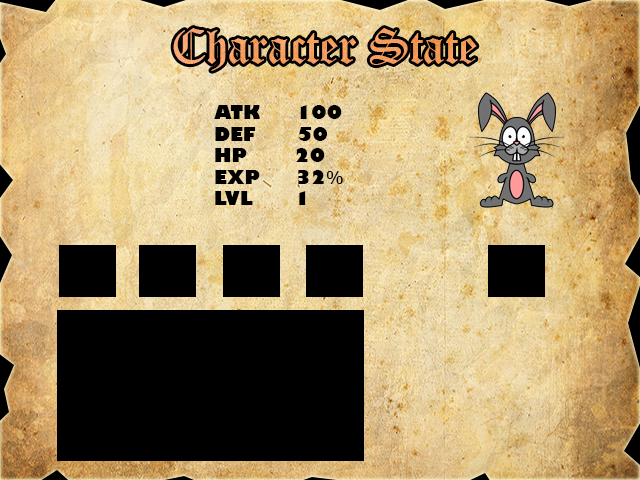
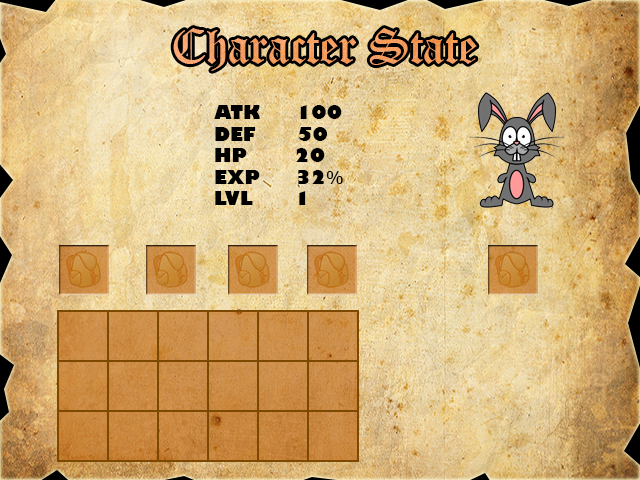
Make CharacterScreen completely.

Changed region(s): [[0.0625, 0.5, 0.5938, 0.9688], [0.75, 0.5, 0.875, 0.625]]

diff --git a/core/src/main/java/sut/game01/core/screen/CharacterScreen.java b/core/src/main/java/sut/game01/core/screen/CharacterScreen.java
@@ -34,7 +34,7 @@ public class CharacterScreen extends UIScreen {
         layer.add(bgLayer);
 
         ImageLayer startLayer = PlayN.graphics().createImageLayer(PlayN.assets().getImage("images/CharacterScreen/MapButton.png"));
-        startLayer.setTranslation(640f - 230f,480f - 170f);
+        startLayer.setTranslation(640f - 220f,480f - 170f);
 
         startLayer.addListener(new Pointer.Adapter(){
             @Override
@@ -46,7 +46,7 @@ public class CharacterScreen extends UIScreen {
         layer.add(startLayer);
 
         ImageLayer backLayer = PlayN.graphics().createImageLayer(PlayN.assets().getImage("images/CharacterScreen/BackButton.png"));
-        backLayer.setTranslation(640f - 230f,480f - 100f);
+        backLayer.setTranslation(640f - 220f,480f - 100f);
         backLayer.addListener(new Pointer.Adapter(){
             @Override
             public void onPointerEnd(Pointer.Event event) {
@@ -55,6 +55,15 @@ public class CharacterScreen extends UIScreen {
             }
         });
         layer.add(backLayer);
+
+        ImageLayer upLayer = PlayN.graphics().createImageLayer(PlayN.assets().getImage("images/CharacterScreen/Up.png"));
+        upLayer.setTranslation(640f - 275f,480f - 170f);
+        layer.add(upLayer);
+
+        ImageLayer downLayer = PlayN.graphics().createImageLayer(PlayN.assets().getImage("images/CharacterScreen/Down.png"));
+        downLayer.setTranslation(640f - 275f,480f - 60f);
+        layer.add(downLayer);
+
 
         // Add model for show
         Witch model = new Witch(null,125f,150f,true);

diff --git a/core/src/main/java/sut/game01/core/screen/Game2D.java b/core/src/main/java/sut/game01/core/screen/Game2D.java
@@ -120,7 +120,7 @@ public class Game2D extends Screen {
                         break;
                     case ENTER:
                         main.setState(Witch.State.atk1);
-                        objCollection.add(new Fireball(layer,main.layer().tx(),main.layer().ty()));
+                        objCollection.add(new Fireball(layer,main.layer().tx() + 25f,main.layer().ty()));
                         break;
                 }
             }

diff --git a/core/src/main/java/sut/game01/core/character/Witch.java b/core/src/main/java/sut/game01/core/character/Witch.java
@@ -54,8 +54,6 @@ public class Witch implements ObjectDynamic {
                 PlayN.log().error("Error loading image!", cause);
             }
         });
-
-        
     }
 
     public void update(int delta)
